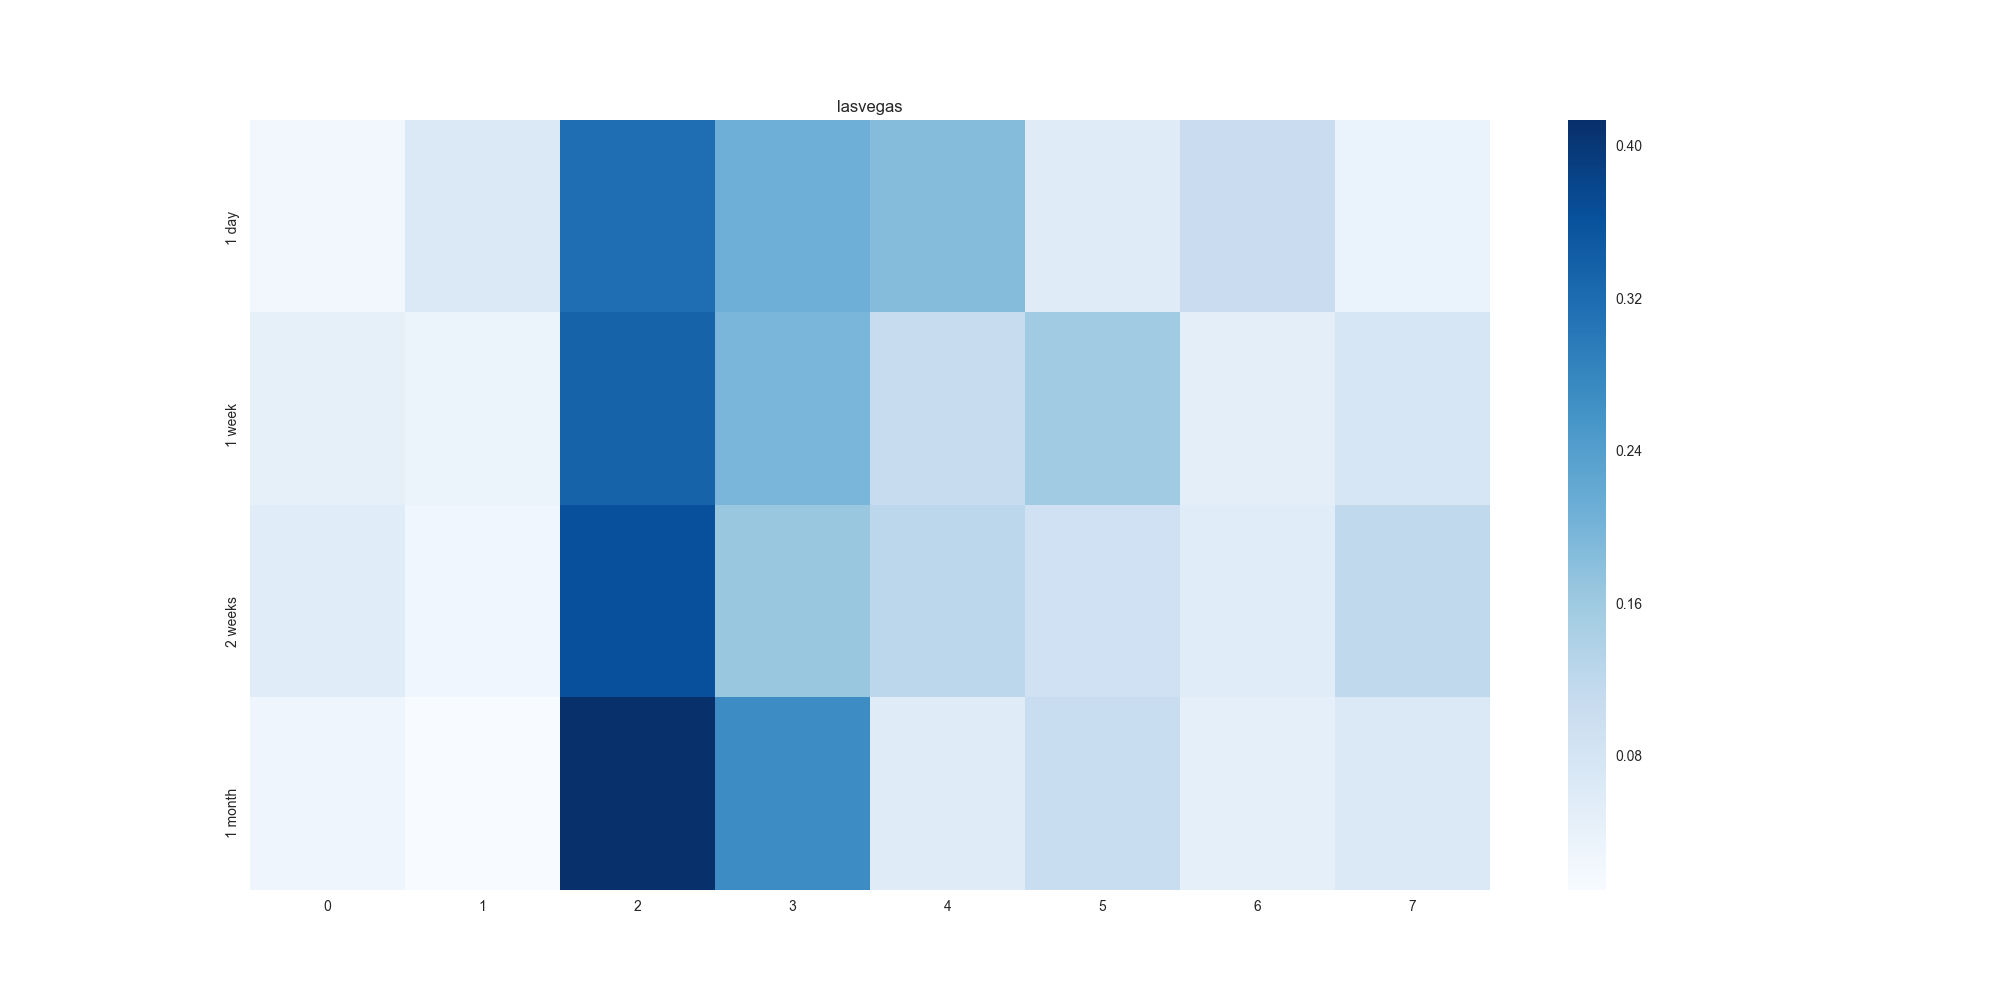
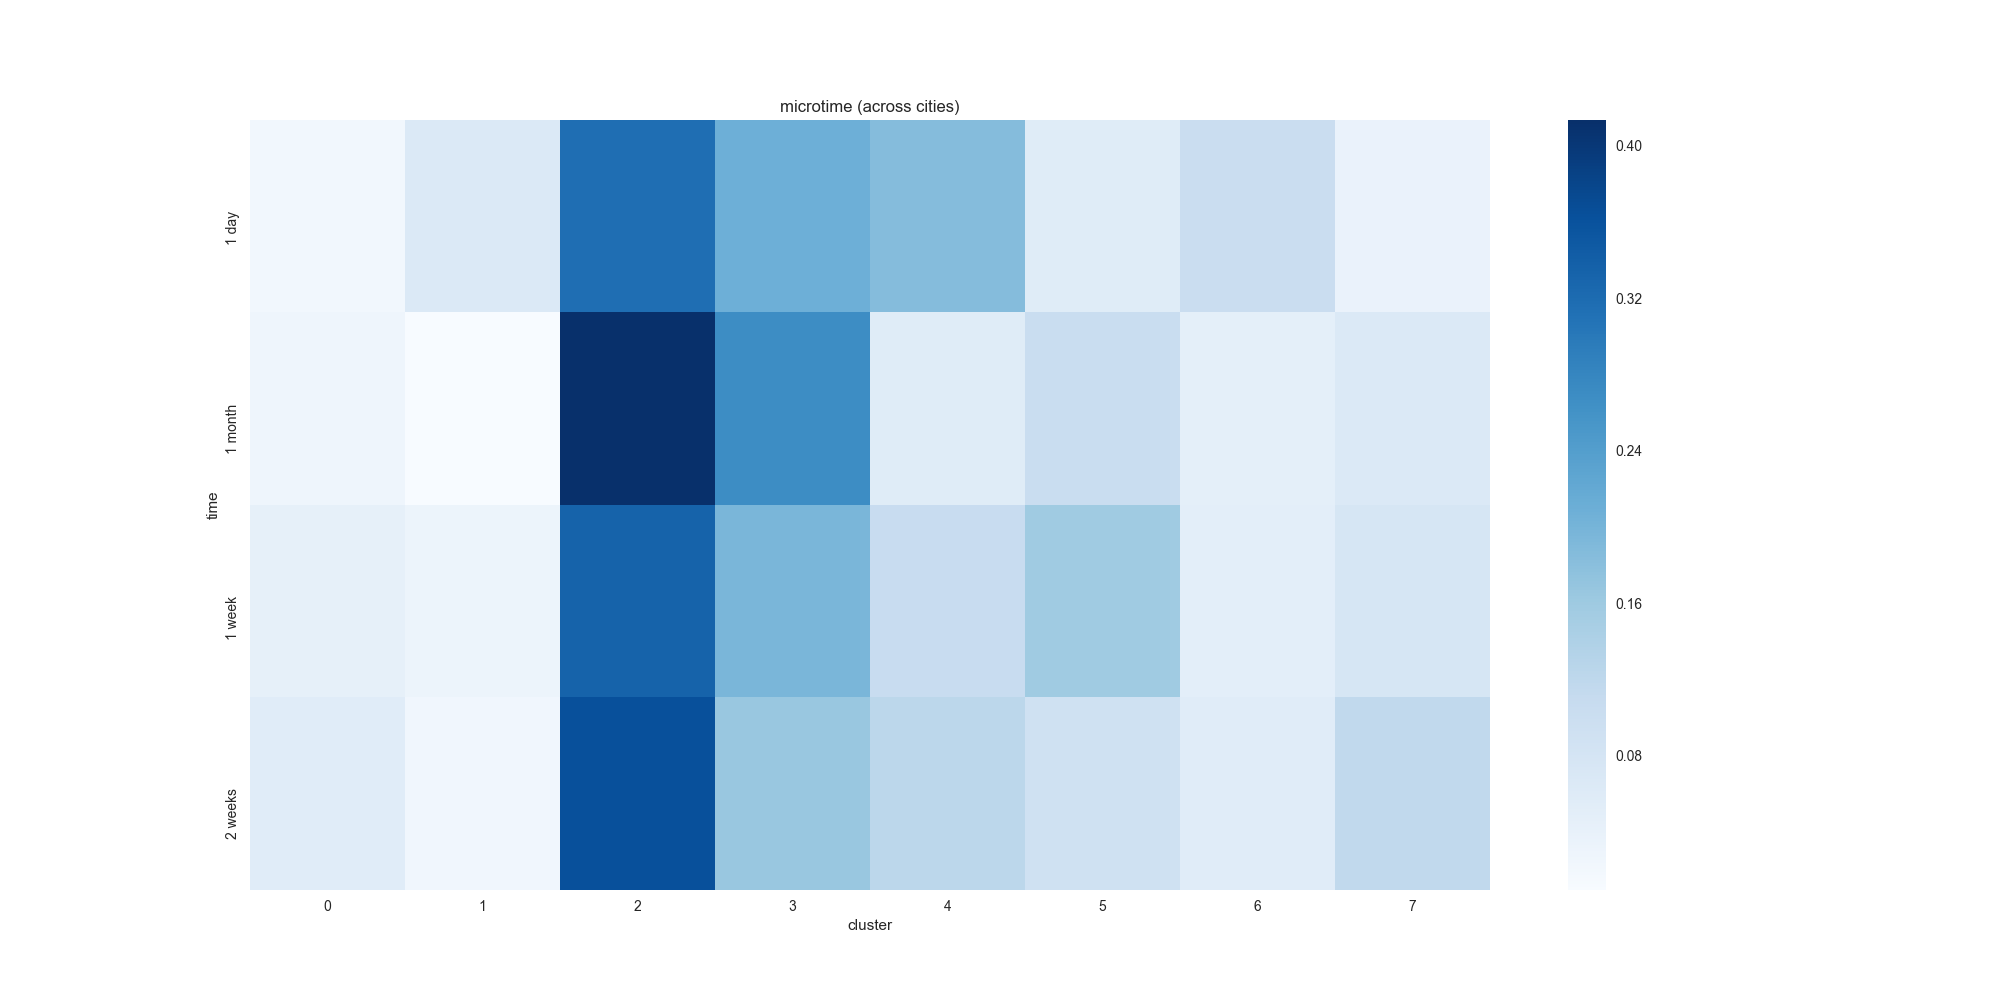
Adds second round of results

diff --git a/macrotime.py b/macrotime.py
@@ -1,0 +1,72 @@
+from scipy.stats import chi2_contingency
+import matplotlib.pyplot as plt
+import seaborn as sns; sns.set(style='white')
+from datetime import datetime
+import numpy as np
+import pandas as pd
+import json
+import os
+import re
+
+with open(f'macrotime/pval.txt', 'w') as f:
+    f.write('chi2test p-values\n')
+
+paths = [
+    '/Users/anthonysicilia/Desktop/SCProject/comments/orlando_start=2016-06-12-00:00:00_end=2016-07-12-00:00:00_ep=comment.json',
+    '/Users/anthonysicilia/Desktop/SCProject/comments/lasvegas_start=2017-10-01-00:00:00_end=2017-11-01-00:00:00_ep=comment.json',    
+    '/Users/anthonysicilia/Desktop/SCProject/comments/pittsburgh_start=2018-10-27-00:00:00_end=2018-11-27-00:00:00_ep=comment.json',
+    '/Users/anthonysicilia/Desktop/SCProject/comments/elpaso_start=2019-08-03-00:00:00_end=2019-09-03-00:00:00_ep=comment.json'
+    ]
+refs = [
+    # year, month, day[, hour[, minute
+    (2016, 6, 12, 2, 2),
+    (2017, 10, 1, 12 + 10, 5),
+    (2018, 10, 27, 9, 54),
+    (2019, 8, 3, 10, 39)
+    ]
+
+def time_class(time, ref):
+    time = datetime.fromtimestamp(time)
+    return time.year
+
+time = dict()
+
+for comment_path, ref in zip(paths, refs):
+
+    save_path = comment_path.split('comments/')[1]
+    save_path = save_path.split('=')[1].split('-')[0] + ' ' + save_path.split('_')[0]
+
+    with open(comment_path) as f:
+            
+            try:
+                x = json.load(f)
+            except:
+                print('Error Loading File.')
+                exit()
+            try:
+                x = x['comments']
+            except:
+                print('Expected "comment" field. Field not found.')
+                exit()
+            
+            for comment in x:
+                time[comment['id']] = save_path
+
+clusters = pd.read_csv('labels/clusters.txt')
+clusters['time'] = clusters['reddit_id'].apply(lambda id_: 
+    time[id_] if id_ in time else None)
+clusters = clusters[~clusters['time'].isnull()]
+clusters['count'] = 1.0
+df = clusters.pivot_table(
+    index='time', columns='cluster', 
+    values='count', aggfunc=sum)
+chi2, p, dof, expected = chi2_contingency(df.values)
+fig, ax = plt.subplots(figsize=(20, 10))
+for i in range(df.values.shape[0]):
+    df.values[i] = df.values[i] / df.values[i].sum()
+sns.heatmap(df, ax=ax, cmap='Blues')
+plt.title(f'macrotime (across cities)')
+plt.savefig(f'macrotime/viz')
+with open(f'macrotime/pval.txt', 'a') as f:
+    f.write(f'p-value: {p}\n')
+

diff --git a/microtime.py b/microtime.py
@@ -8,7 +8,7 @@ import json
 import os
 import re
 
-with open(f'microtime/pvals.txt', 'w') as f:
+with open(f'microtime/pval.txt', 'w') as f:
     f.write('chi2test p-values\n')
 
 paths = [
@@ -29,13 +29,13 @@ def time_class(time, ref):
     time = datetime.fromtimestamp(time)
     ref = datetime(*ref)
     if (time - ref).days < 1:
-        return 0
+        return '1 day'
     elif (time - ref).days < 7:
-        return 1
+        return '1 week'
     elif (time - ref).days < 14:
-        return 2
+        return '2 weeks'
     else:
-        return 3
+        return '1 month'
 
 for comment_path, ref in zip(paths, refs):
 
@@ -63,22 +63,17 @@ for comment_path, ref in zip(paths, refs):
     clusters['time'] = clusters['reddit_id'].apply(lambda id_: 
         time[id_] if id_ in time else None)
     clusters = clusters[~clusters['time'].isnull()]
-    clusters['time'] = clusters['time'].astype(int)
-    clusters['count'] = 1
-    df = clusters.groupby(['time', 'cluster']).count().reset_index()
-    n = len(set(clusters['cluster']))
-    m = len(set(clusters['time']))
-    table = np.zeros((m, n))
-    for i,c in enumerate(df['count']):
-        table[i // n, i % n] = c
-    chi2, p, dof, expected = chi2_contingency(table)
-    for i in range(table.shape[0]):
-        table[i] = table[i] / table[i].sum()
+    clusters['count'] = 1.0
+    df = clusters.pivot_table(
+        index='time', columns='cluster', 
+        values='count', aggfunc=sum)
+    chi2, p, dof, expected = chi2_contingency(df.values)
     fig, ax = plt.subplots(figsize=(20, 10))
-    sns.heatmap(table, yticklabels=['1 day', '1 week', '2 weeks', '1 month'], ax=ax,
-        cmap='Blues')
-    plt.title(f'{save_path}')
+    for i in range(df.values.shape[0]):
+        df.values[i] = df.values[i] / df.values[i].sum()
+    sns.heatmap(df, ax=ax, cmap='Blues')
+    plt.title(f'microtime (across cities)')
     plt.savefig(f'microtime/{save_path}')
-    with open(f'microtime/pvals.txt', 'a') as f:
+    with open(f'microtime/pval.txt', 'a') as f:
         f.write(f'{save_path} p-value: {p}\n')
 
